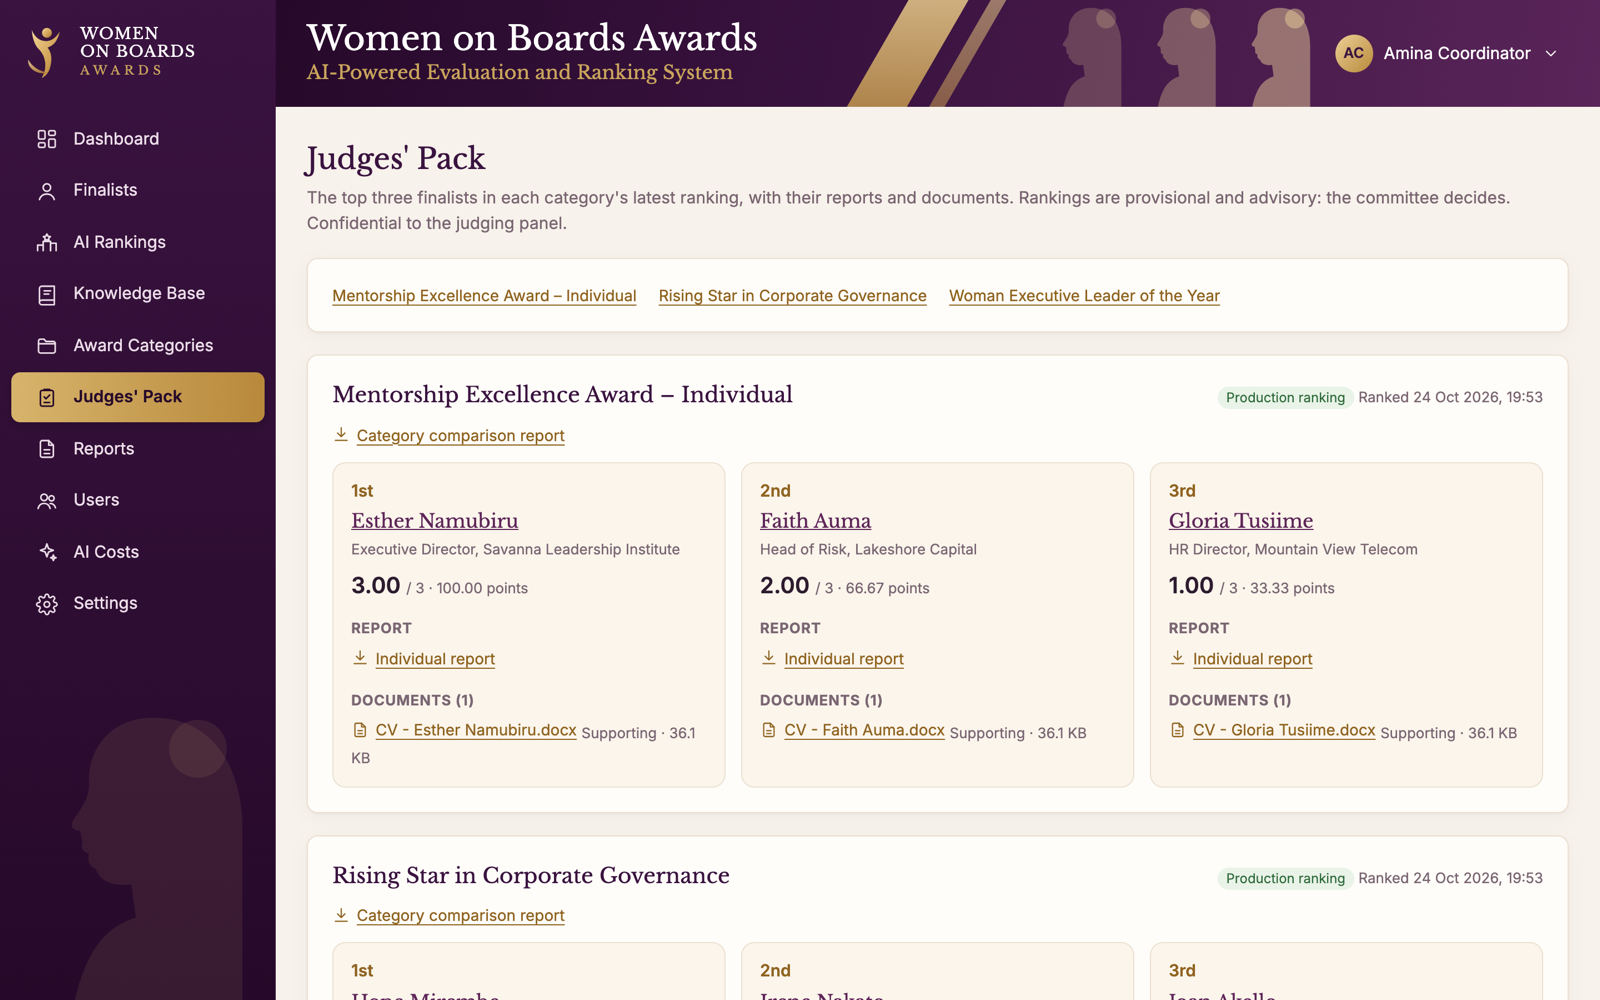
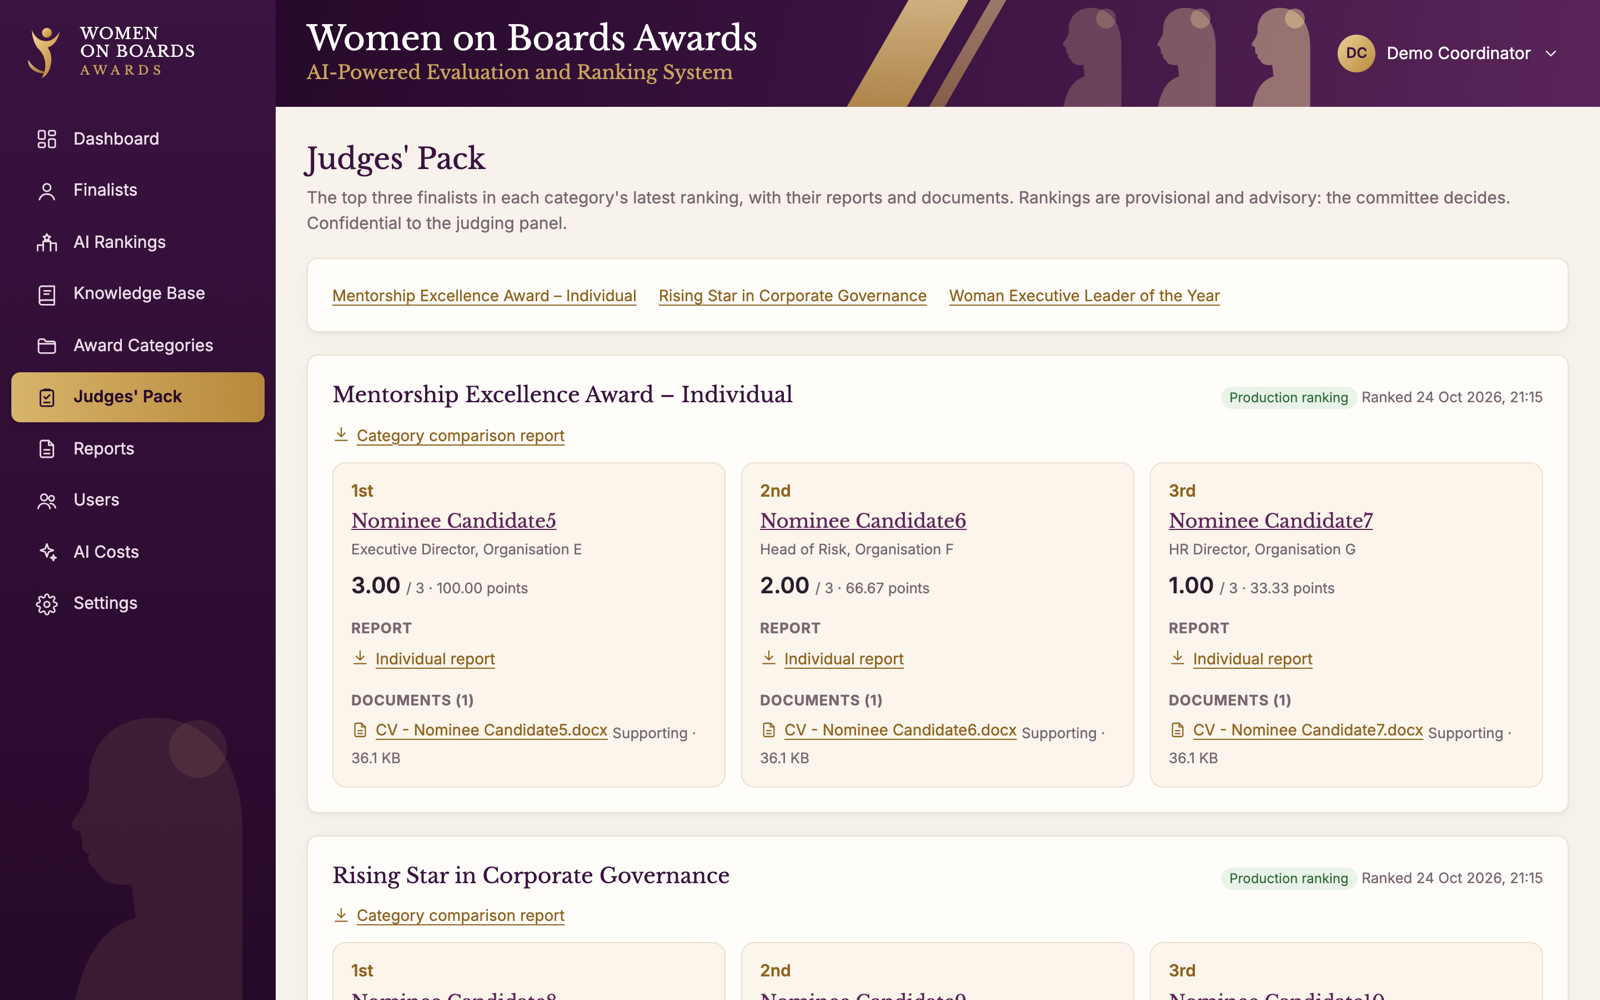
Use placeholder names in the README screenshots
The demo nominees and organisations had realistic invented names that
could be read as real people. The screenshots now show Nominee
Candidate1-10, Organisation A-J and a "Demo Coordinator" account.

diff --git a/README.md b/README.md
@@ -79,7 +79,7 @@ The system implements the *AI-Powered RAG Technical Specification v1.0* and runs
 
 ## Screenshots
 
-> All screenshots use a separate demo database with **fictional nominees and organisations**. No real nomination data is shown.
+> All screenshots use a separate demo database with **placeholder nominees and organisations** (Nominee Candidate1, Organisation A, and so on). No real nomination data is shown.
 
 <table>
 <tr>
